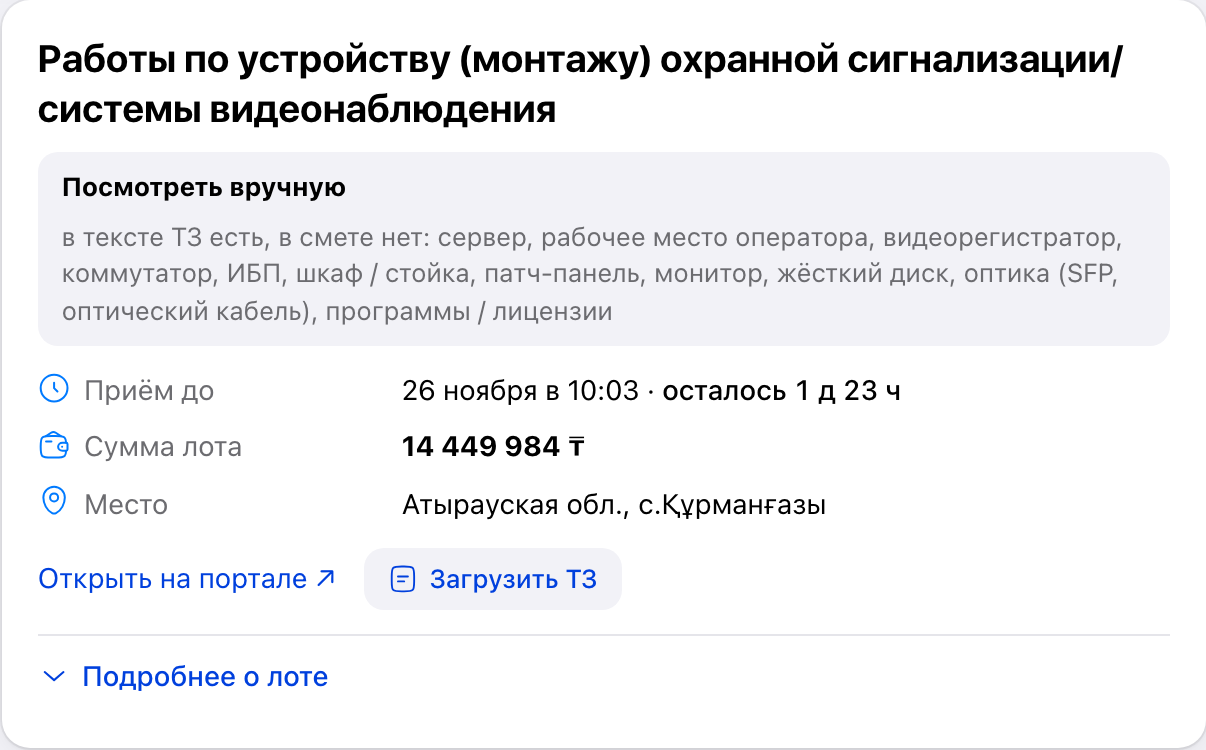
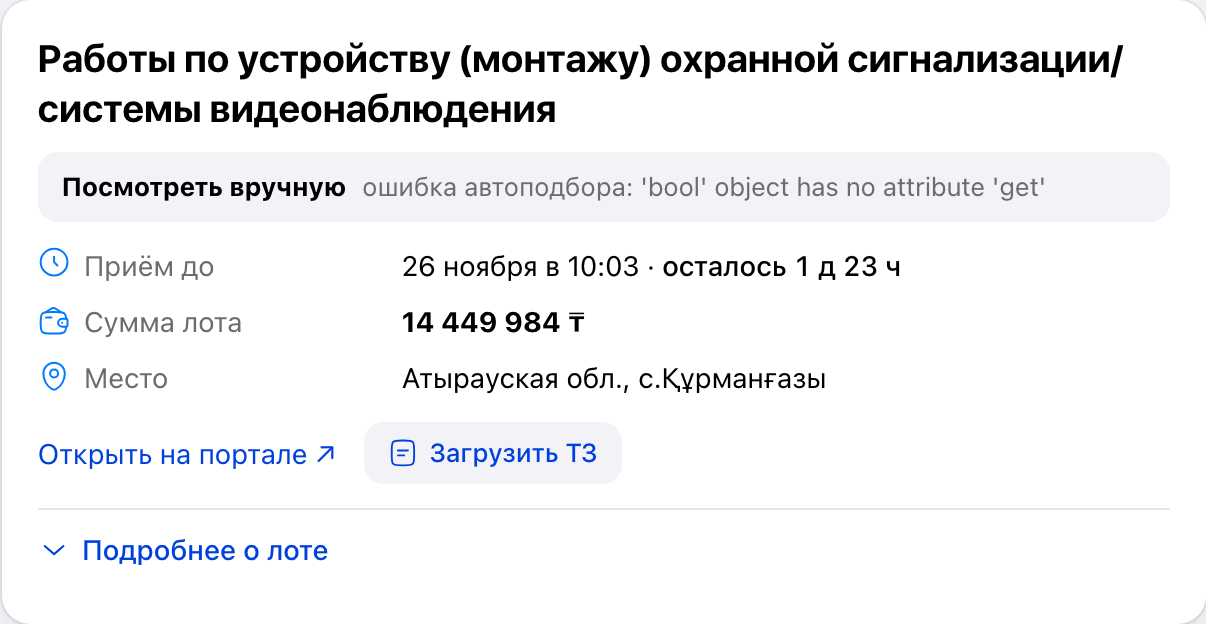
Сайт на GitHub Pages: сборка build_static.py раз в час (лоты, ТЗ, цены keeper.kz), страница в режиме файлов (правки — в браузере), задание .github/workflows/pages.yml, описание docs/DEPLOY.md; выдача данных сервера вынесена в api_get

diff --git a/web/index.html b/web/index.html
@@ -246,7 +246,52 @@ function instRate(n){return n>S.instT2?S.inst3:n>S.instT1?S.inst2:S.inst1}
 function instTier(n){return n>S.instT2?`от ${S.instT2+1} камер`:n>S.instT1?`${S.instT1+1}–${S.instT2} камер`:`до ${S.instT1} камер`}
 let URG=false, S=Object.assign({},DEF), LOTS=[], CUR=null, sortK='end', sortDir=1;
 
-async function api(p,body){const r=await fetch(p,body?{method:'POST',headers:{'Content-Type':'application/json'},body:JSON.stringify(body)}:{});return r.json()}
+// Сайт на GitHub Pages (window.STATIC): данных сервера нет — страница читает файлы data/, собранные build_static.py,
+// а ваши правки (расчёты, параметры) хранит в этом браузере (docs/DEPLOY.md)
+const STATIC=!!window.STATIC;
+const LS={get(k,d){try{const v=localStorage.getItem(k);return v==null?d:JSON.parse(v)}catch(e){return d}},
+  set(k,v){try{localStorage.setItem(k,JSON.stringify(v))}catch(e){}},del(k){try{localStorage.removeItem(k)}catch(e){}}};
+async function getJSON(u,d){try{const r=await fetch(u,{cache:'no-cache'});return r.ok?await r.json():d}catch(e){return d}}
+async function api(p,body){
+  if(!STATIC){const r=await fetch(p,body?{method:'POST',headers:{'Content-Type':'application/json'},body:JSON.stringify(body)}:{});return r.json()}
+  const [path,qs]=p.split('?'),q=new URLSearchParams(qs||''),id=path.split('/').pop();
+  if(body){
+    if(path.startsWith('/api/calc/')){body.reset?LS.del('calc:'+id):LS.set('calc:'+id,body);return {ok:true}}
+    if(path==='/api/settings'){LS.set('settings',body);return {ok:true}}
+    return {ok:false,error:'на сайте недоступно — только в локальной версии'};
+  }
+  if(path==='/api/settings')return LS.get('settings',{});
+  if(path==='/api/status')return getJSON('data/status.json',{});
+  if(path==='/api/lots'){const L=await getJSON('data/lots.json',[]);L.forEach(l=>{const c=LS.get('calc:'+l.id,null);if(c)l.calc=c});return L}
+  if(path.startsWith('/api/lot/')){const l=await getJSON(`data/lot/${id}.json`,{});const c=LS.get('calc:'+id,null);if(c)l.calc=c;return l}
+  if(path.startsWith('/api/match/'))return getJSON(`data/match/${id}.json`,{candidates:[],models:[]});
+  if(path==='/api/supplier/similar')return getJSON(`data/similar/${q.get('article')}.json`,[]);
+  if(path==='/api/supplier/search')return catalogSearch(q.get('q')||'');
+  return {};
+}
+// поиск «Найти» в браузере — то же, что zakup/supplier.py → search: модель, затем слова (редкие весят больше)
+let CATALOG=null;
+const SRC=['платина','золото (платина по запросу)','цена по запросу'];
+const plain=s=>(s||'').toLowerCase().replace(/ё/g,'е').replace(/[ъь]/g,'').replace(/(\d)\s*[xх×*]\s*(\d)/g,'$1x$2');
+const normM=s=>(s||'').toUpperCase().replace(/О/g,'O').replace(/С/g,'C').replace(/Е/g,'E').replace(/А/g,'A').replace(/Р/g,'P').replace(/Х/g,'X').replace(/К/g,'K').replace(/М/g,'M').replace(/Т/g,'T').replace(/Н/g,'H').replace(/В/g,'B').replace(/[^A-Z0-9]/g,'');
+const STOPW=new Set(['для','и','с','в','на','под','из','по','от','до','шт','мм','м','не','менее','более','или','без','со']);
+function qTokens(q){const out=[];for(let w of plain(q).match(/\d+(?:[.,]\d+)?x\d+(?:[.,]\d+)?|[a-zа-я0-9][a-zа-я0-9.,\/-]*/g)||[]){
+  w=w.replace(/^[.,\/-]+|[.,\/-]+$/g,'');if(w.length<2||STOPW.has(w))continue;
+  const sz=w.match(/^(\d+(?:[.,]\d+)?)x(\d+(?:[.,]\d+)?)$/);
+  if(sz)out.push(['size',[`${sz[1]}x${sz[2]}`,`${sz[2]}x${sz[1]}`]]);
+  else if(/^[а-я]+$/.test(w)&&w.length>5)out.push(['word',w.slice(0,Math.max(5,w.length-3))]);else out.push(['word',w])}return out}
+async function catalogSearch(q,limit=30){
+  if(!CATALOG)CATALOG=(await getJSON('data/catalog.json',[])).map(r=>({article:r[0],name:r[1],brand:r[2],category:r[3],cost:r[4],cost_src:SRC[r[5]],quantity:r[6],is_camera:!!r[7],_p:plain(r[1]+' '+r[2]),_n:normM(r[1])}));
+  const n=normM(q),seen=new Set(),out=[];
+  if(n.length>=4)for(const p of CATALOG.filter(p=>p._n.includes(n)).sort((a,b)=>(a.quantity<=0)-(b.quantity<=0)||(a.cost||1e18)-(b.cost||1e18)).slice(0,limit)){seen.add(p.article);out.push({...p,why:'поиск'})}
+  const T=qTokens(q);if(!T.length)return out;
+  const need=Math.max(1,Math.ceil(T.length/2)),df=T.map(()=>0),hits=[];
+  for(const p of CATALOG){if(seen.has(p.article))continue;const m=[];T.forEach(([k,v],i)=>{if(k==='size'?v.some(s=>p._p.includes(s)):p._p.includes(v)){m.push(i);df[i]++}});if(m.length>=need)hits.push([m,p])}
+  const total=Math.max(df.reduce((a,b)=>a+b,0),1),w=df.map(d=>Math.log(1+total/(d||1)));
+  hits.map(([m,p])=>[m.reduce((a,i)=>a+w[i],0),m.length,p]).sort((a,b)=>b[0]-a[0]||(a[2].quantity<=0)-(b[2].quantity<=0)||(a[2].cost||1e18)-(b[2].cost||1e18))
+    .slice(0,limit-out.length).forEach(([s,k,p])=>out.push({...p,why:`совпало слов: ${k} из ${T.length}`}));
+  return out;
+}
 
 // сколько осталось до окончания приёма заявок — от текущего момента
 function leftText(end){
@@ -391,7 +436,7 @@ async function open(id){
     <div class="links">${l.system==='ЭГЗ'?`<a href="https://old.goszakup.gov.kz/ru/announce/index/${l.ann_ext}" target="_blank">Открыть на портале ↗</a>`
       :l.system==='SKK'?`<a href="https://zakup.sk.kz/#/ext(popup:item/${encodeURIComponent(l.ann_number)}/advert)" target="_blank">Открыть закупку на zakup.sk.kz ↗</a>`
       :`<span class="mut small">Площадка ${esc(l.system)}: ищите № ${esc(l.ann_number)} на <a href="https://zakup.gov.kz" target="_blank">zakup.gov.kz</a></span>`}
-      <label class="upl" title="PDF, Word или Excel — программа прочитает ТЗ и пересчитает лот">${ic('document')}Загрузить ТЗ<input type="file" id="tsFile" multiple accept=".pdf,.doc,.docx,.rtf,.xlsx" hidden></label>
+      <label class="upl" ${STATIC?'style="display:none"':''} title="PDF, Word или Excel — программа прочитает ТЗ и пересчитает лот">${ic('document')}Загрузить ТЗ<input type="file" id="tsFile" multiple accept=".pdf,.doc,.docx,.rtf,.xlsx" hidden></label>
       <span id="tsUp" class="small mut">${((l.techspec||{}).uploads||[]).length?'загружено: '+l.techspec.uploads.map(u=>esc(u.name)).join(', '):''}</span></div>
     ${more('Подробнее о лоте','',`<div class="kv small">
       <span class="k">${ic('document')}Номер</span><span>${esc(l.ann_number)} · лот ${esc(l.lot_number)} · ${esc(l.system)}</span>
@@ -662,6 +707,7 @@ async function load(){
 }
 async function poll(){
   const s=await api('/api/status');
+  if(STATIC){$('#btnRef .lbl').textContent='Обновлено '+(s.built_at?new Date(s.built_at*1000).toLocaleString('ru-RU',{day:'numeric',month:'short',hour:'2-digit',minute:'2-digit'}):'—');$('#btnRef').disabled=true;$('#btnRef').title='Сайт обновляется сам раз в час';if(poll.b&&s.built_at!==poll.b)load();poll.b=s.built_at;return}
   $('#btnRef .lbl').textContent=s.running?s.stage:'Обновить';
   $('#btnRef').disabled=s.running;
   if(s.last)$('#btnRef').title='Последнее обновление: '+new Date(s.last.at*1000).toLocaleString('ru-RU');
@@ -674,7 +720,7 @@ document.querySelectorAll('#sortSeg button').forEach(b=>b.onclick=()=>{const k=b
 ['#fCat','#fReg','#fQ','#fMin'].forEach(s=>$(s).addEventListener('input',render));
 $('#btnRef').onclick=async()=>{await api('/api/refresh',{});poll()};
 $('#btnSet').onclick=()=>$('#params').hidden?settings():closeParams();
-$('#btnHelp').onclick=async()=>{$('#params').hidden=true;const md=await (await fetch('/api/doc')).text();$('#detail').innerHTML=`<div class="card doc">${mdToHtml(md)}</div>`};
+$('#btnHelp').onclick=async()=>{$('#params').hidden=true;const md=await (await fetch(STATIC?'data/doc.md':'/api/doc')).text();$('#detail').innerHTML=`<div class="card doc">${mdToHtml(md)}</div>`};
 // мини-рендер markdown для справки (заголовки, списки, таблицы, жирный, код)
 function mdToHtml(md){
   const inl=t=>esc(t).replace(/\*\*(.+?)\*\*/g,'<b>$1</b>').replace(/`([^`]+)`/g,'<code>$1</code>');
@@ -691,7 +737,7 @@ function mdToHtml(md){
   return h+(list?'</ul>':'')+(tbl?'</table>':'');
 }
 document.querySelectorAll('[data-ic]').forEach(el=>{const n=el.dataset.ic;if(el.tagName==='SPAN'&&!el.textContent)el.outerHTML=ic(n);else el.insertAdjacentHTML('afterbegin',ic(n))});
-(async()=>{Object.assign(S,await api('/api/settings'));await load();poll();setInterval(poll,3000);setInterval(()=>document.querySelectorAll('.left[data-end]').forEach(el=>{el.lastChild.textContent=' '+leftText(el.dataset.end);el.classList.toggle('urgent',new Date(el.dataset.end)-Date.now()<864e5)}),30000);setInterval(load,60000)})();
+(async()=>{Object.assign(S,await api('/api/settings'));await load();poll();setInterval(poll,STATIC?300000:3000);setInterval(()=>document.querySelectorAll('.left[data-end]').forEach(el=>{el.lastChild.textContent=' '+leftText(el.dataset.end);el.classList.toggle('urgent',new Date(el.dataset.end)-Date.now()<864e5)}),30000);setInterval(load,60000)})();
 </script>
 </body>
 </html>

diff --git a/server.py b/server.py
@@ -245,6 +245,65 @@ def lot_flags(lot, ts, auto):
     }
 
 
+def api_get(full):
+    """GET /api/… → (код, тело, тип). Его же вызывает сборка сайта для GitHub Pages (build_static.py)."""
+    p = full.split("?")[0]
+    if p == "/api/status":
+        return (200, state | {"last": store.meta_get("last_refresh"), "supplier": sup_state | {
+            "catalog": store.meta_get("supplier_catalog"), "prices": store.meta_get("supplier_prices")}})
+    if p == "/api/lots":
+        now = utcnow().isoformat()
+        rows = store.q("SELECT * FROM lots")
+        out = [lot_summary(r) for r in rows]
+        out = [o for o in out if (o["end"] or "") >= now[:19] and o["west"] is not False]
+        out.sort(key=lambda o: o["end"] or "")
+        return (200, out)
+    if p.startswith("/api/match/"):
+        lid = int(p.rsplit("/", 1)[1])
+        r = store.q("SELECT * FROM lots WHERE id=?", (lid,))
+        if not r:
+            return (404, {"error": "нет такого лота"})
+        s = lot_summary(r[0])
+        ts = store.get_json("techspec", "lot_id", lid)[0] or {}
+        spec = (ts.get("spec") or {})
+        text = " ".join(filter(None, [s["announcement"], s["short"], spec.get("desc") or spec.get("raw")]))
+        return (200, supplier.match_lot(text, s["name"]))
+    if p.startswith("/api/supplier/search"):
+        from urllib.parse import parse_qs, urlparse
+        qv = (parse_qs(urlparse(full).query).get("q") or [""])[0]
+        return (200, supplier.search(qv))
+    if p.startswith("/api/supplier/similar"):
+        # другие варианты к позиции сметы: та же категория поставщика, сначала в наличии и дешевле
+        from urllib.parse import parse_qs, urlparse
+        art = int((parse_qs(urlparse(full).query).get("article") or ["0"])[0] or 0)
+        base = store.q("SELECT * FROM supplier_products WHERE article=?", (art,))
+        if not base:
+            return (200, [])
+        rows = store.q("SELECT * FROM supplier_products WHERE category=? AND article<>? "
+                       "ORDER BY quantity>0 DESC, COALESCE(NULLIF(final_price,0),price) LIMIT 400",
+                       (base[0]["category"], art))
+        out = []
+        for r in rows:  # только не хуже исходного по главным характеристикам (docs/ECONOMICS.md, 2.4)
+            ok, why = bom.not_worse(base[0], r)
+            if ok and supplier.cost_of(dict(r)):
+                out.append(supplier.row_out(r, why, 0))
+        return (200, out[:8])
+    if p.startswith("/api/lot/"):
+        lid = int(p.rsplit("/", 1)[1])
+        r = store.q("SELECT * FROM lots WHERE id=?", (lid,))
+        if not r:
+            return (404, {"error": "нет такого лота"})
+        s = lot_summary(r[0])
+        s["techspec"] = store.get_json("techspec", "lot_id", lid)[0]
+        s["history"] = [store.get_json("history", "enstru_code", c)[0] for c in s["enstru"]]
+        return (200, s)
+    if p == "/api/settings":
+        return (200, store.meta_get("settings", {}))
+    if p == "/api/doc":
+        return (200, (ROOT / "docs" / "AUTOPICK.md").read_bytes(), "text/markdown; charset=utf-8")
+    return (404, {"error": "not found"})
+
+
 class H(BaseHTTPRequestHandler):
     def log_message(self, *a):
         pass
@@ -259,63 +318,9 @@ class H(BaseHTTPRequestHandler):
         self.wfile.write(body)
 
     def do_GET(self):
-        p = self.path.split("?")[0]
-        if p in ("/", "/index.html"):
+        if self.path.split("?")[0] in ("/", "/index.html"):
             return self.send(200, (ROOT / "web" / "index.html").read_bytes(), "text/html; charset=utf-8")
-        if p == "/api/status":
-            return self.send(200, state | {"last": store.meta_get("last_refresh"), "supplier": sup_state | {
-                "catalog": store.meta_get("supplier_catalog"), "prices": store.meta_get("supplier_prices")}})
-        if p == "/api/lots":
-            now = utcnow().isoformat()
-            rows = store.q("SELECT * FROM lots")
-            out = [lot_summary(r) for r in rows]
-            out = [o for o in out if (o["end"] or "") >= now[:19] and o["west"] is not False]
-            out.sort(key=lambda o: o["end"] or "")
-            return self.send(200, out)
-        if p.startswith("/api/match/"):
-            lid = int(p.rsplit("/", 1)[1])
-            r = store.q("SELECT * FROM lots WHERE id=?", (lid,))
-            if not r:
-                return self.send(404, {"error": "нет такого лота"})
-            s = lot_summary(r[0])
-            ts = store.get_json("techspec", "lot_id", lid)[0] or {}
-            spec = (ts.get("spec") or {})
-            text = " ".join(filter(None, [s["announcement"], s["short"], spec.get("desc") or spec.get("raw")]))
-            return self.send(200, supplier.match_lot(text, s["name"]))
-        if p.startswith("/api/supplier/search"):
-            from urllib.parse import parse_qs, urlparse
-            qv = (parse_qs(urlparse(self.path).query).get("q") or [""])[0]
-            return self.send(200, supplier.search(qv))
-        if p.startswith("/api/supplier/similar"):
-            # другие варианты к позиции сметы: та же категория поставщика, сначала в наличии и дешевле
-            from urllib.parse import parse_qs, urlparse
-            art = int((parse_qs(urlparse(self.path).query).get("article") or ["0"])[0] or 0)
-            base = store.q("SELECT * FROM supplier_products WHERE article=?", (art,))
-            if not base:
-                return self.send(200, [])
-            rows = store.q("SELECT * FROM supplier_products WHERE category=? AND article<>? "
-                           "ORDER BY quantity>0 DESC, COALESCE(NULLIF(final_price,0),price) LIMIT 400",
-                           (base[0]["category"], art))
-            out = []
-            for r in rows:  # только не хуже исходного по главным характеристикам (docs/ECONOMICS.md, 2.4)
-                ok, why = bom.not_worse(base[0], r)
-                if ok and supplier.cost_of(dict(r)):
-                    out.append(supplier.row_out(r, why, 0))
-            return self.send(200, out[:8])
-        if p.startswith("/api/lot/"):
-            lid = int(p.rsplit("/", 1)[1])
-            r = store.q("SELECT * FROM lots WHERE id=?", (lid,))
-            if not r:
-                return self.send(404, {"error": "нет такого лота"})
-            s = lot_summary(r[0])
-            s["techspec"] = store.get_json("techspec", "lot_id", lid)[0]
-            s["history"] = [store.get_json("history", "enstru_code", c)[0] for c in s["enstru"]]
-            return self.send(200, s)
-        if p == "/api/settings":
-            return self.send(200, store.meta_get("settings", {}))
-        if p == "/api/doc":
-            return self.send(200, (ROOT / "docs" / "AUTOPICK.md").read_bytes(), "text/markdown; charset=utf-8")
-        self.send(404, {"error": "not found"})
+        self.send(*api_get(self.path))
 
     def do_POST(self):
         p = self.path

diff --git a/build_static.py b/build_static.py
@@ -1,0 +1,100 @@
+"""Сборка сайта для GitHub Pages: обновляет данные и сохраняет всё, что страница берёт у сервера, в файлы site/.
+
+Запускается по расписанию на GitHub (.github/workflows/pages.yml), можно и вручную: python3 build_static.py
+Ключ keeper.kz — из переменной KEEPER_TOKEN (на GitHub — секрет репозитория) или из .env.
+Что меняется на сайте по сравнению с локальной версией — docs/DEPLOY.md.
+"""
+import json
+import shutil
+import sys
+import time
+from pathlib import Path
+
+import server
+from zakup import store, supplier
+
+ROOT = Path(__file__).resolve().parent
+OUT = ROOT / "site"
+
+
+def log(s):
+    print(s, flush=True)
+
+
+def age(key):
+    m = store.meta_get(key)
+    return time.time() - m["at"] if m else 1e12
+
+
+def update():
+    """Каталог поставщика — раз в сутки, остатки и цены — каждый запуск, лоты и ТЗ — каждый запуск."""
+    try:
+        if age("supplier_categories") > 7 * 24 * 3600:
+            supplier.sync_categories(log)
+        if age("supplier_catalog") > 23 * 3600:
+            supplier.sync_catalog(log)
+        else:
+            supplier.sync_prices(log)
+    except Exception as e:  # без поставщика лоты всё равно обновим — со старыми ценами
+        log(f"поставщик: ошибка {e}")
+    server.refresh()
+    if server.state["error"]:
+        log(f"обновление лотов: ошибка {server.state['error']}")
+
+
+def get(path):
+    code, body, *_ = server.api_get(path)
+    if code != 200:
+        raise RuntimeError(f"{path}: {code} {body}")
+    return body
+
+
+def dump(rel, obj):
+    f = OUT / rel
+    f.parent.mkdir(parents=True, exist_ok=True)
+    f.write_text(json.dumps(obj, ensure_ascii=False, separators=(",", ":")))
+
+
+def export():
+    shutil.rmtree(OUT, ignore_errors=True)
+    OUT.mkdir()
+    html = (ROOT / "web" / "index.html").read_text()
+    html = html.replace("<head>", "<head>\n<script>window.STATIC=true</script>", 1)  # страница читает файлы, а не сервер
+    (OUT / "index.html").write_text(html)
+    (OUT / ".nojekyll").write_text("")
+    (OUT / "data").mkdir()
+    (OUT / "data" / "doc.md").write_bytes((ROOT / "docs" / "AUTOPICK.md").read_bytes())
+
+    lots = get("/api/lots")
+    dump("data/lots.json", lots)
+    status = get("/api/status") | {"built_at": time.time()}
+    dump("data/status.json", status)
+
+    articles = set()
+    for l in lots:
+        dump(f"data/lot/{l['id']}.json", get(f"/api/lot/{l['id']}"))
+        m = get(f"/api/match/{l['id']}")
+        dump(f"data/match/{l['id']}.json", m)
+        articles |= {c["article"] for c in m.get("candidates") or []}
+        articles |= {i["article"] for i in ((l.get("auto") or {}).get("items") or []) if i.get("article")}
+    for a in sorted(articles):  # «Другие варианты» — заранее для всех товаров из смет и подбора
+        dump(f"data/similar/{a}.json", get(f"/api/supplier/similar?article={a}"))
+
+    # каталог для поиска «Найти» в браузере: [артикул, название, бренд, категория, цена, источник цены, остаток, камера]
+    src_code = {"платина": 0, "золото (платина по запросу)": 1}
+    cat = []
+    for r in store.q("SELECT * FROM supplier_products"):
+        d = dict(r)
+        cost = supplier.cost_of(d)
+        cat.append([r["article"], r["name"] or "", r["brand"] or "", r["category"], cost,
+                    src_code.get(supplier.cost_src(d), 2), r["quantity"] or 0,
+                    1 if supplier.CAMERA_RE.search(r["name"] or "") else 0])
+    dump("data/catalog.json", cat)
+    size = sum(f.stat().st_size for f in OUT.rglob("*") if f.is_file())
+    log(f"сайт собран: {len(lots)} лотов, {len(articles)} списков замен, каталог {len(cat)}, {size / 1e6:.1f} МБ")
+
+
+if __name__ == "__main__":
+    if "--no-update" not in sys.argv:
+        update()
+    export()

diff --git a/docs/DEPLOY.md b/docs/DEPLOY.md
@@ -1,0 +1,32 @@
+# Сайт на GitHub Pages
+
+Адрес: https://ppechkin574-art.github.io/zakup-helper/ — открыт всем, без пароля (решение 24.11.2026).
+На сайте видно всё: лоты, расчёты прибыли, закупочные цены keeper.kz.
+
+## Как работает
+
+GitHub не умеет запускать наш сервер, поэтому сайт — готовые файлы, которые пересобираются раз в час:
+
+1. `.github/workflows/pages.yml` — каждый час (и после каждого изменения в `main`) GitHub на своём Mac:
+   - ставит программы для чтения ТЗ (`poppler`, `tesseract` с русским и казахским);
+   - берёт базу с прошлого запуска (кэш GitHub, хранится до 7 дней без запусков);
+   - запускает проверки `tests/`, затем `build_static.py`.
+2. `build_static.py` — обновляет каталог keeper.kz (раз в сутки; остатки и цены — каждый запуск), лоты, ТЗ, историю цен, автоподбор и сохраняет в `site/` всё, что страница брала у сервера: `data/lots.json`, `data/lot/<id>.json`, `data/match/<id>.json`, `data/similar/<артикул>.json`, каталог для поиска `data/catalog.json`.
+3. GitHub Pages показывает `site/`.
+
+Ключ keeper.kz — секрет репозитория `KEEPER_TOKEN` (Settings → Secrets and variables → Actions). В файлах сайта и в коде его нет.
+
+## Чем сайт отличается от версии на Mac
+
+| | На Mac (`python3 server.py`) | Сайт |
+|---|---|---|
+| Обновление лотов | раз в 30 минут и по кнопке | раз в час, сам |
+| Ваши цены, расчёты, параметры | в базе, общие | **в браузере** того, кто ввёл: команда их не видит, в другом браузере их нет |
+| Загрузить ТЗ (Самрук-Қазына, сканы) | есть | нет — только на Mac |
+| «Другие варианты» | для любого товара | для товаров из смет и подбора |
+| Поиск «Найти» | на сервере | в браузере, по каталогу (≈5 МБ, грузится при первом поиске) |
+
+## Если что-то сломалось
+
+- Запуски и ошибки: вкладка **Actions** в репозитории. Перезапуск — «Обновление сайта» → **Run workflow**.
+- Первый запуск или запуск после 7 дней перерыва — долгий (до часа): каталог и ТЗ скачиваются заново.
